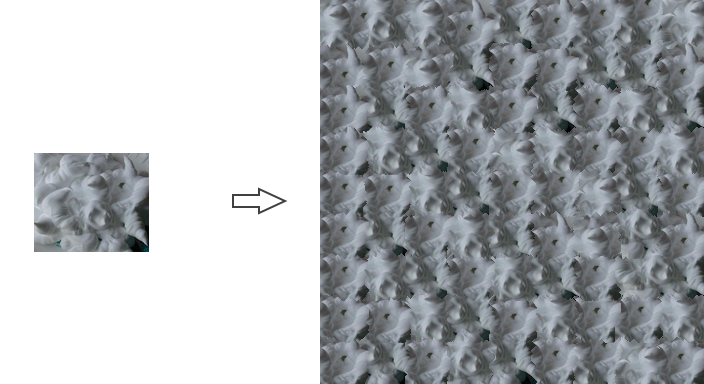
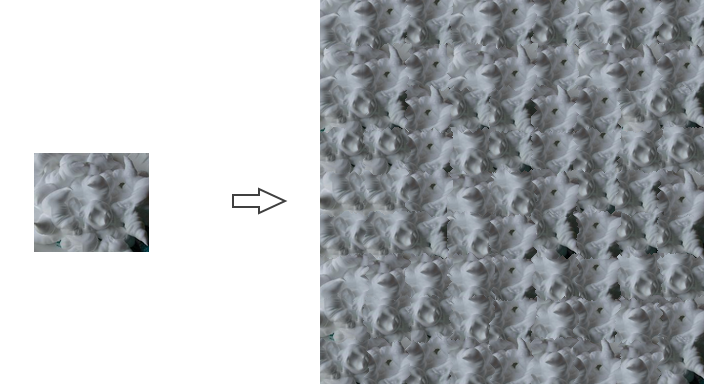
fix MSE computation; add new example

diff --git a/src/imageQuilting.cpp b/src/imageQuilting.cpp
@@ -27,7 +27,6 @@ namespace
         return sqrErrSum;
     }
 
-    template<bool DST_X_POSITIVE, bool DST_Y_POSITIVE>
     float computeMSE(
         const Image<Float3> &src,
         const Image<Float3> &dst,
@@ -38,10 +37,10 @@ namespace
         int overlapW,
         int overlapH)
     {
-        if constexpr(!DST_X_POSITIVE && !DST_Y_POSITIVE)
+        if(dstX <= 0  && dstY <= 0)
             return 0;
 
-        if constexpr(DST_X_POSITIVE && !DST_Y_POSITIVE)
+        if(dstX > 0 && dstY <= 0)
         {
             const float sqrErrSum = computeErrorSum(
                 src, srcX, srcY, dst, dstX, dstY, overlapW, blockH);
@@ -51,7 +50,7 @@ namespace
             return sqrErrSum / pixelCnt;
         }
 
-        if constexpr(!DST_Y_POSITIVE && DST_Y_POSITIVE)
+        if(dstX <= 0 && dstY > 0)
         {
             const float sqrErrSum = computeErrorSum(
                 src, srcX, srcY, dst, dstX, dstY, blockW, overlapH);
@@ -85,16 +84,17 @@ namespace
         int lastUnitOffset = 0;
     };
 
-    Image<MinCostCutUnit> computeVerticalCutCost(
-        const Image<Float3> &A,
-        const Image<Float3> &B,
+    void computeVerticalCutCost(
+        const Image<Float3>     &A,
+        const ImageView<Float3> &B,
         int xA,    int yA,
         int xB,    int yB,
-        int width, int height)
+        int width, int height,
+        Image<MinCostCutUnit> &result)
     {
         // result(y, x) is min cost cut which passes
         //      Edge(A(xA + x, yA + y), B(xB + x + 1, yB + y))
-        Image<MinCostCutUnit> result(height, width - 1);
+        assert(result.width() == width - 1 && result.height() == height);
 
         auto edgeCost = [&](int x, int y)
         {
@@ -124,20 +124,19 @@ namespace
                     result(yi, xi) = { costRight, 1 };
             }
         }
-
-        return result;
     }
 
-    Image<MinCostCutUnit> computeHorizontalCutCost(
-        const Image<Float3> &A,
-        const Image<Float3> &B,
+    void computeHorizontalCutCost(
+        const Image<Float3>     &A,
+        const ImageView<Float3> &B,
         int xA,    int yA,
         int xB,    int yB,
-        int width, int height)
+        int width, int height,
+        Image<MinCostCutUnit> &result)
     {
         // result(y, x) is min cost cut which passes
         //      Edge(A(xA + x, yA + y), B(xB + x, yB + y + 1))
-        Image<MinCostCutUnit> result(height - 1, width);
+        assert(result.width() == width && result.height() == height - 1);
 
         auto edgeCost = [&](int x, int y)
         {
@@ -166,8 +165,6 @@ namespace
                     result(yi, xi) = { costPY, 1 };
             }
         }
-
-        return result;
     }
 
     /**
@@ -175,14 +172,18 @@ namespace
      *      Edge(A(xA + ret[yi], yA + yi), B(xB + ret[yi] + 1, yB + yi))
      */
     std::vector<int> computeVerticalMinCostCut(
-        const Image<Float3> &A,
-        const Image<Float3> &B,
+        const Image<Float3>     &A,
+        const ImageView<Float3> &B,
         int xA,    int yA,
         int xB,    int yB,
         int width, int height)
     {
-        const auto costs = computeVerticalCutCost(
-            A, B, xA, yA, xB, yB, width, height);
+        thread_local static Image<MinCostCutUnit> costs;
+        if(costs.size() != agz::math::vec2i{ width - 1, height })
+            costs.initialize(height, width - 1);
+
+        computeVerticalCutCost(
+            A, B, xA, yA, xB, yB, width, height, costs);
 
         float bestCost  = std::numeric_limits<float>::max();
         int bestCostXi = -1, nextXi = -1;
@@ -213,14 +214,18 @@ namespace
      *      Edge(A(xA + xi, yA + ret[xi]), B(xB + xi, yB + ret[xi] + 1))
      */
     std::vector<int> computeHorizontalMinCostCut(
-        const Image<Float3> &A,
-        const Image<Float3> &B,
+        const Image<Float3>     &A,
+        const ImageView<Float3> &B,
         int xA,    int yA,
         int xB,    int yB,
         int width, int height)
     {
-        const auto costs = computeHorizontalCutCost(
-            A, B, xA, yA, xB, yB, width, height);
+        thread_local static Image<MinCostCutUnit> costs;
+        if(costs.size() != agz::math::vec2i{ width, height - 1 })
+            costs.initialize(height - 1, width);
+
+        computeHorizontalCutCost(
+            A, B, xA, yA, xB, yB, width, height, costs);
 
         float bestCost = std::numeric_limits<float>::max();
         int bestCostYi = -1, nextYi = -1;
@@ -351,7 +356,7 @@ Image<Float3> ImageQuilting::generate(
     return dst.subtex(0, generatedHeight, 0, generatedWidth);
 }
 
-Image<Float3> ImageQuilting::pickSourceBlock(
+ImageView<Float3> ImageQuilting::pickSourceBlock(
     const Image<Float3>         &src,
     const Image<Float3>         &dst,
     int                          x,
@@ -368,20 +373,16 @@ Image<Float3> ImageQuilting::pickSourceBlock(
         const int srcX = disX(rng);
         const int srcY = disY(rng);
 
-        return src.subtex(srcY, srcY + blockH_, srcX, srcX + blockW_);
+        return src.subview(srcY, srcY + blockH_, srcX, srcX + blockW_);
     }
 
     std::multimap<float, agz::math::vec2i> mseToXY;
-
-    AGZ_DYN_FUNC_BOOL2_TEMPLATE(computeMSE, computeMSEFunc);
-    const auto mseFunc = computeMSEFunc[
-        agz::misc::bools_to_dyn_call_idx({ x > 0, y > 0 })];
 
     for(int srcY = 0; srcY < src.height() - blockH_; ++srcY)
     {
         for(int srcX = 0; srcX < src.width() - blockW_; ++srcX)
         {
-            const float mse = mseFunc(
+            const float mse = computeMSE(
                 src, dst, srcX, srcY, x, y,
                 blockW_, blockH_, overlapW_, overlapH_);
 
@@ -405,14 +406,14 @@ Image<Float3> ImageQuilting::pickSourceBlock(
         0, static_cast<int>(allowedXYs.size() - 1));
     const auto xy = allowedXYs[dis(rng)];
 
-    return src.subtex(xy.y, xy.y + blockH_, xy.x, xy.x + blockW_);
+    return src.subview(xy.y, xy.y + blockH_, xy.x, xy.x + blockW_);
 }
 
 void ImageQuilting::putBlockAt(
-    const Image<Float3> &block,
-    Image<Float3>       &dst,
-    int                  x,
-    int                  y) const
+    const ImageView<Float3> &block,
+    Image<Float3>           &dst,
+    int                      x,
+    int                      y) const
 {
     if(!useMinEdgeCut_)
     {

diff --git a/src/main.cpp b/src/main.cpp
@@ -44,6 +44,7 @@ std::optional<CmdArgs> parseCmdArgs(int argc, char *argv[])
         ("help",       "help information");
 
     const auto args = options.parse(argc, argv);
+
     if(args.count("help"))
     {
         std::cout << options.help({ "" }) << std::endl;
@@ -52,37 +53,45 @@ std::optional<CmdArgs> parseCmdArgs(int argc, char *argv[])
 
     CmdArgs result;
 
-    result.inputFilename  = args["input"] .as<std::string>();
-    result.outputFilename = args["output"].as<std::string>();
-    result.outputWidth    = args["width"] .as<int>();
-    result.outputHeight   = args["height"].as<int>();
-    result.blockWidth     = args["blockW"].as<int>();
-    result.blockHeight    = args["blockH"].as<int>();
+    try
+    {
+        result.inputFilename  = args["input"] .as<std::string>();
+        result.outputFilename = args["output"].as<std::string>();
+        result.outputWidth    = args["width"] .as<int>();
+        result.outputHeight   = args["height"].as<int>();
+        result.blockWidth     = args["blockW"].as<int>();
+        result.blockHeight    = args["blockH"].as<int>();
 
-    if(args.count("overlapW"))
-        result.overlapWidth = args["overlapW"].as<int>();
-    else
-        result.overlapWidth = std::max(1, result.blockWidth / 6);
+        if(args.count("overlapW"))
+            result.overlapWidth = args["overlapW"].as<int>();
+        else
+            result.overlapWidth = std::max(1, result.blockWidth / 6);
 
-    if(args.count("overlapH"))
-        result.overlapHeight = args["overlapH"].as<int>();
-    else
-        result.overlapHeight = std::max(1, result.blockHeight / 6);
+        if(args.count("overlapH"))
+            result.overlapHeight = args["overlapH"].as<int>();
+        else
+            result.overlapHeight = std::max(1, result.blockHeight / 6);
 
-    if(args.count("mseBlock"))
-        result.useMSEBlockSelection = args["mseBlock"].as<bool>();
-    else
-        result.useMSEBlockSelection = true;
+        if(args.count("mseBlock"))
+            result.useMSEBlockSelection = args["mseBlock"].as<bool>();
+        else
+            result.useMSEBlockSelection = true;
 
-    if(args.count("minCutEdge"))
-        result.useMinEdgeCut = args["minCutEdge"].as<bool>();
-    else
-        result.useMinEdgeCut = true;
+        if(args.count("minCutEdge"))
+            result.useMinEdgeCut = args["minCutEdge"].as<bool>();
+        else
+            result.useMinEdgeCut = true;
 
-    if(args.count("tolerance"))
-        result.blockTolerance = args["tolerance"].as<float>();
-    else
-        result.blockTolerance = 0.1f;
+        if(args.count("tolerance"))
+            result.blockTolerance = args["tolerance"].as<float>();
+        else
+            result.blockTolerance = 0.1f;
+    }
+    catch(...)
+    {
+        std::cout << options.help({ "" }) << std::endl;
+        return {};
+    }
 
     return result;
 }

diff --git a/src/imageQuilting.h b/src/imageQuilting.h
@@ -9,6 +9,9 @@ using Float3 = agz::math::float3;
 template<typename T>
 using Image = agz::texture::texture2d_t<T>;
 
+template<typename T>
+using ImageView = agz::texture::texture2d_view_t<T, true>;
+
 class ImageQuilting
 {
 public:
@@ -40,7 +43,7 @@ private:
      * the result will be put at (x, y) in dst. all pixels before the new block
      * in scan order are assumed to be already filled.
      */
-    Image<Float3> pickSourceBlock(
+    ImageView<Float3> pickSourceBlock(
         const Image<Float3>        &src,
         const Image<Float3>        &dst,
         int                         x,
@@ -51,10 +54,10 @@ private:
      * put block at (x, y) in dst with minimum err boundary cut
      */
     void putBlockAt(
-        const Image<Float3> &block,
-        Image<Float3>       &dst,
-        int                  x,
-        int                  y) const;
+        const ImageView<Float3> &block,
+        Image<Float3>           &dst,
+        int                      x,
+        int                      y) const;
 
     int blockW_;
     int blockH_;

diff --git a/README.md b/README.md
@@ -43,3 +43,6 @@ cmake -DCMAKE_BUILD_TYPE=Release ..
 ./ImageQuilting.exe --input=input.png --output=output.png --blockW=100 --blockH=100 --width=384 --height=384
 ```
 
+#### example.4
+
+![](./gallery/example.4.png)
